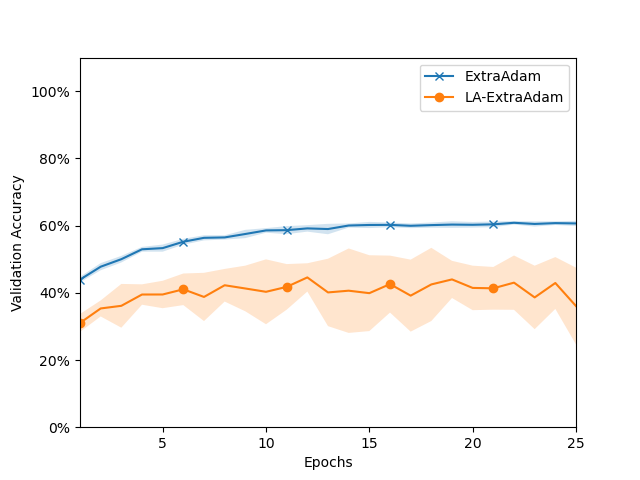
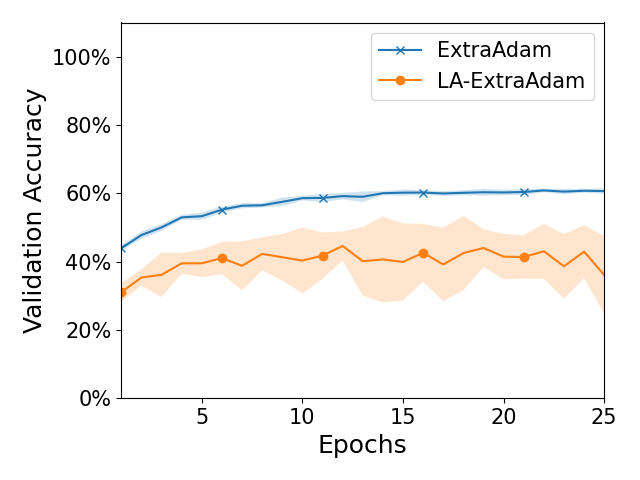
font size change results plots

diff --git a/results/result_eval.py b/results/result_eval.py
@@ -3,6 +3,7 @@ import matplotlib.pyplot as plt
 import numpy as np
 import os
 import matplotlib.ticker as mtick
+import matplotlib
 from pathlib import Path
 from Utils.visualization_utils import tsplot
 markers=('o', 'x', '^', '<', '>', '*', 'h', 'H', 'D', 'd', 'P', 'X', '8', 's', 'p')
@@ -43,11 +44,16 @@ def plot_avg_valid_results():
         tsplot(ax, df, marker='x',markevery=5)
         tsplot(ax, df_LA, marker='o', markevery=5)
 
-        ax.set_xlabel('Epochs')
-        ax.set_ylabel('{} Validation Accuracy'.format(attack.upper()) if attack is not None else "Validation Accuracy")
+        ax.set_xlabel('Epochs', fontsize=18)
+        ax.set_ylabel('{} Validation Accuracy'.format(attack.upper()) if attack is not None else "Validation Accuracy",
+                      fontsize=18)
         ax.set_ylim(0, 1.1)
         ax.yaxis.set_major_formatter(mtick.PercentFormatter(1.0))
-        plt.legend([optim, "LA-{}".format(optim)])
+        font = {'size': 15}
+        matplotlib.rc('font', **font)
+        matplotlib.pyplot.tight_layout()
+
+        plt.legend([optim, "LA-{}".format(optim)], prop={'size': 15})
         if attack is not None:
             plt.savefig("Analysis/{}/avg_{}_valid_acc/{}.png".format(dataset, attack, optim))
         else:
